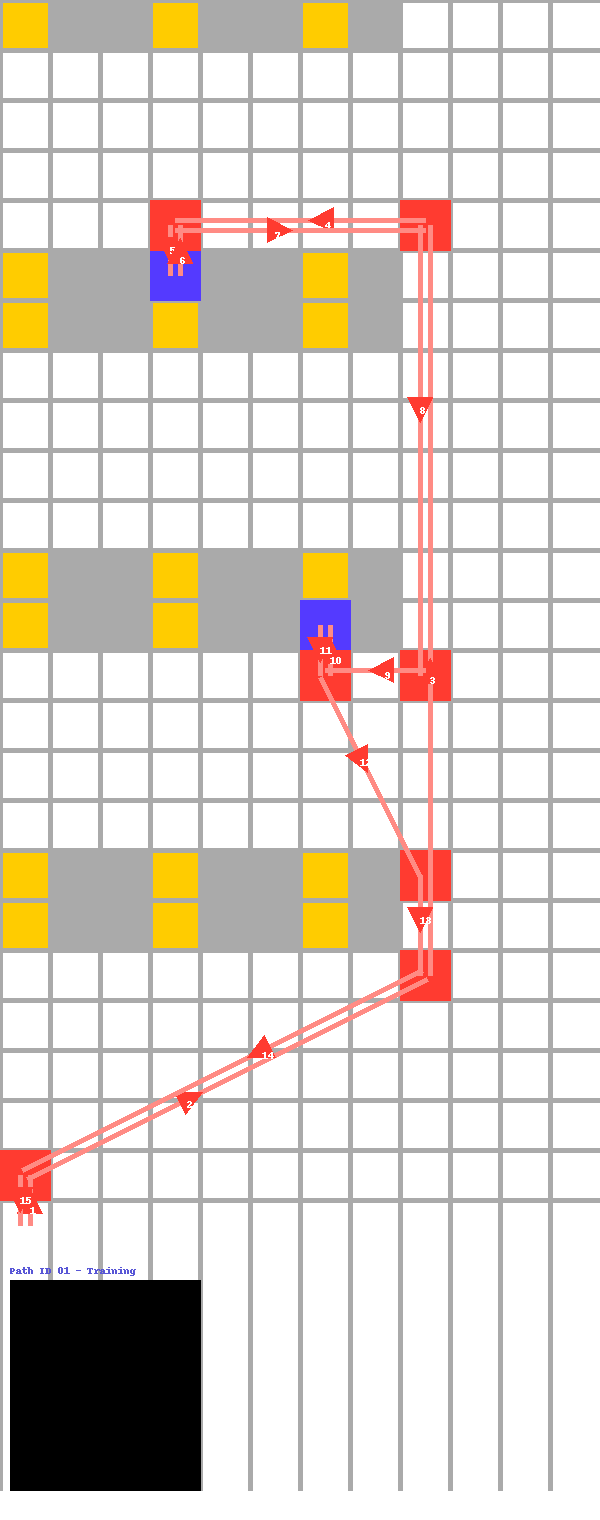
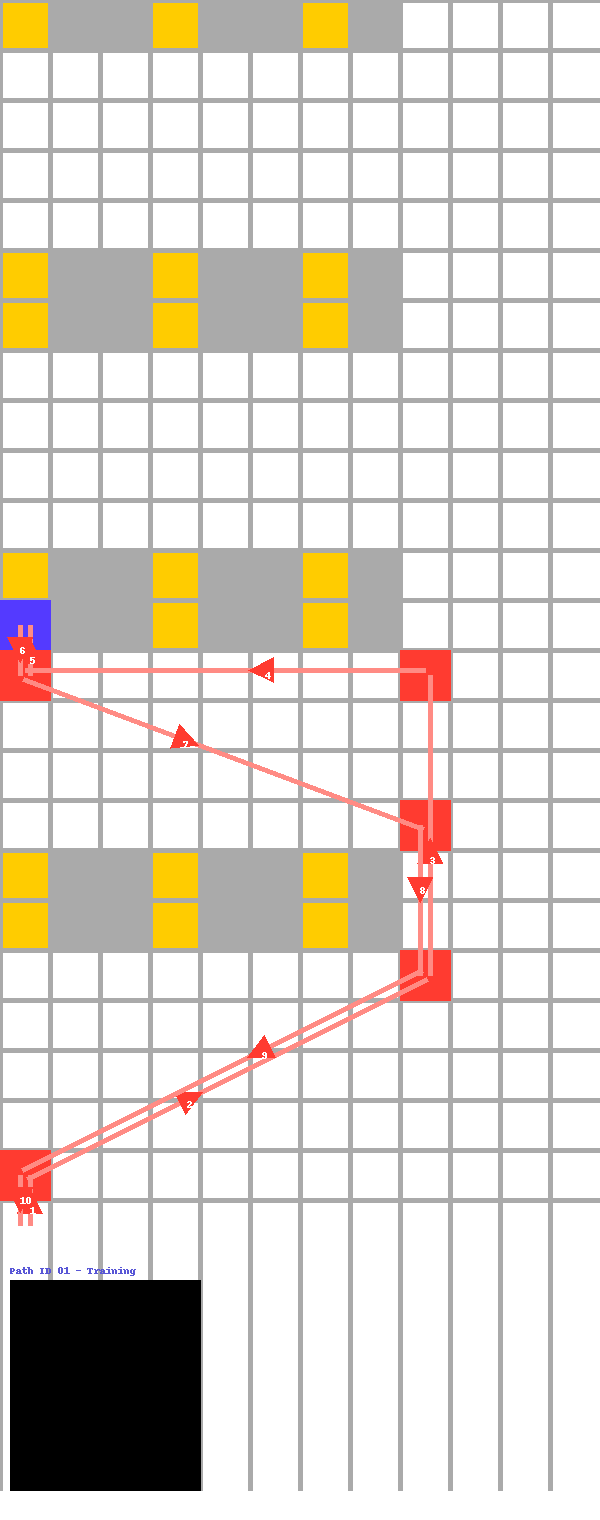
Generate tons of pick paths

diff --git a/src/main.py b/src/main.py
@@ -17,60 +17,61 @@ __file__ = inspect.getfile(inspect.currentframe())
 logger = logging.getLogger(os.path.basename(__file__))
 logger = utils.logging.configure_logger(logger)
 
-# Load the warehouse object from the JSON file
-gt_library_warehouse = GTLibraryGridWarehouse.from_file('data/warehouse.json')
+while True:
+    # Load the warehouse object from the JSON file
+    gt_library_warehouse = GTLibraryGridWarehouse.from_file('data/warehouse.json')
 
-books_per_pick_path = 2
+    books_per_pick_path = 1
 
-logger.debug('Choosing %d books at random.' % books_per_pick_path)
-unordered_books = np.random.choice(
-    a=gt_library_warehouse.books,
-    size=books_per_pick_path,
-    replace=False,
-)
+    logger.debug('Choosing %d books at random.' % books_per_pick_path)
+    unordered_books = np.random.choice(
+        a=gt_library_warehouse.books,
+        size=books_per_pick_path,
+        replace=False,
+    )
 
-unordered_books_locations = gt_library_warehouse.get_locations_of_books(unordered_books)
+    unordered_books_locations = gt_library_warehouse.get_locations_of_books(unordered_books)
 
-logger.debug('Getting sub-graph on chosen book locations and source for TSP.')
-# If two books are on the same column, this method will consider them the same cell,
-# This is why we'll need reintroduce_duplicate_column_locations later
-G_subgraph = gt_library_warehouse.get_subgraph_on_book_locations(unordered_books_locations)
+    logger.debug('Getting sub-graph on chosen book locations and source for TSP.')
+    # If two books are on the same column, this method will consider them the same cell,
+    # This is why we'll need reintroduce_duplicate_column_locations later
+    G_subgraph = gt_library_warehouse.get_subgraph_on_book_locations(unordered_books_locations)
 
-logger.debug('Solving TSP for selected books.')
-optimal_pick_path, optimal_cost = tsp_help_karp.solver(G_subgraph, gt_library_warehouse.source_cell)
+    logger.debug('Solving TSP for selected books.')
+    optimal_pick_path, optimal_cost = tsp_help_karp.solver(G_subgraph, gt_library_warehouse.source_cell)
 
-logger.debug('Patching up solution.')
-ordered_books, ordered_locations = gt_library_warehouse.reintroduce_duplicate_column_locations(
-    zip(unordered_books, unordered_books_locations), optimal_pick_path)
+    logger.debug('Patching up solution.')
+    ordered_books, ordered_locations = gt_library_warehouse.reintroduce_duplicate_column_locations(
+        zip(unordered_books, unordered_books_locations), optimal_pick_path)
 
-# The optimal pick path has two more source locations (source, ..., source)
-assert len(unordered_books) == len(ordered_books) - 2 == len(ordered_locations) - 2
+    # The optimal pick path has two more source locations (source, ..., source)
+    assert len(unordered_books) == len(ordered_books) - 2 == len(ordered_locations) - 2
 
-logger.debug('Computing cell-by-cell pick path in library based on TSP solution.')
-optimal_pick_path_in_library = gt_library_warehouse.get_pick_path_in_library(ordered_locations)
+    logger.debug('Computing cell-by-cell pick path in library based on TSP solution.')
+    optimal_pick_path_in_library = gt_library_warehouse.get_pick_path_in_library(ordered_locations)
 
-logger.debug('Verifying solution has right format and cost.')
-utils.assertions.assert_library_pick_path_is_proper(
-    optimal_pick_path_in_library, ordered_locations, gt_library_warehouse.source_cell)
-utils.assertions.assert_library_pick_path_has_cost(
-    optimal_pick_path_in_library, optimal_cost, len(ordered_books[1:-1]))
+    logger.debug('Verifying solution has right format and cost.')
+    utils.assertions.assert_library_pick_path_is_proper(
+        optimal_pick_path_in_library, ordered_locations, gt_library_warehouse.source_cell)
+    utils.assertions.assert_library_pick_path_has_cost(
+        optimal_pick_path_in_library, optimal_cost, len(ordered_books[1:-1]))
 
-logger.debug('Packaging solution in dictionary.')
-pick_path = gt_library_warehouse.get_pick_path_as_dict(
-    1,
-    'training',
-    unordered_books,
-    unordered_books_locations,
-    ordered_books,
-    ordered_locations,
-    optimal_pick_path_in_library,
-)
+    logger.debug('Packaging solution in dictionary.')
+    pick_path = gt_library_warehouse.get_pick_path_as_dict(
+        1,
+        'training',
+        unordered_books,
+        unordered_books_locations,
+        ordered_books,
+        ordered_locations,
+        optimal_pick_path_in_library,
+    )
 
-path = viz.renderer.render_gt_library_grid_warehouse(gt_library_warehouse, pick_path=pick_path)
+    path = viz.renderer.render_gt_library_grid_warehouse(gt_library_warehouse, pick_path=pick_path)
 
-# https://pages.uoregon.edu/koch/
+    # https://pages.uoregon.edu/koch/
 
-im = mpimg.imread(path)
-height, width = im.shape[:2]
-fig, ax = plt.subplots(figsize=(15, 15))
-ax.imshow(im)
+    # im = mpimg.imread(path)
+    # height, width = im.shape[:2]
+    # fig, ax = plt.subplots(figsize=(15, 15))
+    # ax.imshow(im)

diff --git a/src/viz/renderer.py b/src/viz/renderer.py
@@ -8,6 +8,7 @@ from src import utils
 import os
 from PIL import Image, ImageDraw, ImageFont
 from src import viz
+import datetime
 
 logger = logging.getLogger(os.path.basename(__file__))
 logger = utils.logging.configure_logger(logger)
@@ -229,6 +230,10 @@ def render_gt_library_grid_warehouse(
 
     logger.info('Finished render.')
 
-    im.save('test.png', format='png', compress_level=0)
+    if not os.path.exists('tmp'):
+        os.makedirs('tmp')
 
-    return 'test.png'
+    output_file_path = os.path.join('tmp', str(datetime.datetime.now().timestamp()) + '.png')
+    im.save(output_file_path, format='png', compress_level=0)
+
+    return output_file_path
